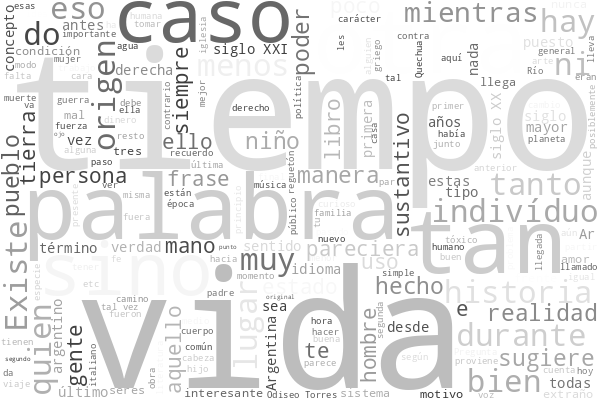
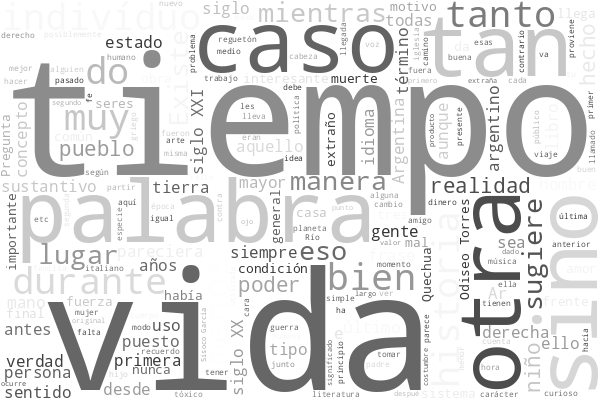
cambio imagen diccionario

diff --git a/_posts/2023-11-28-diccionario-del-bardo.md b/_posts/2023-11-28-diccionario-del-bardo.md
@@ -222,7 +222,7 @@ Aquello que en realidad recuerdan, esos revolucionarios memoriosos no son libros
 
 > Si a medidados del siglo XX alguien daba sin pensarlo con los fragmentos finales de una obra musical, en una radio, puede que llegara esa magia por recurso de irrepetibilidad, ya que era muy complejo rastrear el origen.  En una disquería de London, un italiano pelado escuchaba tararear al comprador y descubría la melodía.  Luca Prodan hizo del descubrimiento del aura, una profesión.  Cierta mañana de los ochentas, época en que las disquerías hacían gala sonora de sus novedades, caminaba por la peatonal Rivera Indarte, en la Córdoba de la llegada de la Democracia.  De golpe, un sonido en acordes de La Menor da paso a golpes de batería de rock.  El fraseo distorcionado apenas deja entrever que se trata de *El Arriero* de Yupanqui, aún recuerdo la sensación de piel de gallina y ganas de llorar.  Demoré algunos minutos en recobrar al paso. 
 
-**Auto** *Gr. αὐτο, autos uno mismo*.  De allí automóvil, automático, autónomo, autocrítica, autótrofo.  Que resealta aspectos de sí mismo.  Una excepción a esto fué, un titular del poder ejecutivo nacional, que no nombramos por *mufa*, se nombraban en tercera persona. 
+**Auto** *Gr. αὐτο, autos uno mismo*.  De allí automóvil, automático, autónomo, autocrítica, autótrofo.  Que resealta aspectos de sí mismo.  Una excepción a esto fue, un titular del poder ejecutivo nacional, que no nombramos por *mufa*, se nombraban en tercera persona. 
 
 > Los autodenominados porros... --Fiscal junto con varios (muchos) policías de la Provincia de Córdoba, en acto de lectura de acta contravencional, en actuación digna de haber evitado una salidera bancaria.
 
